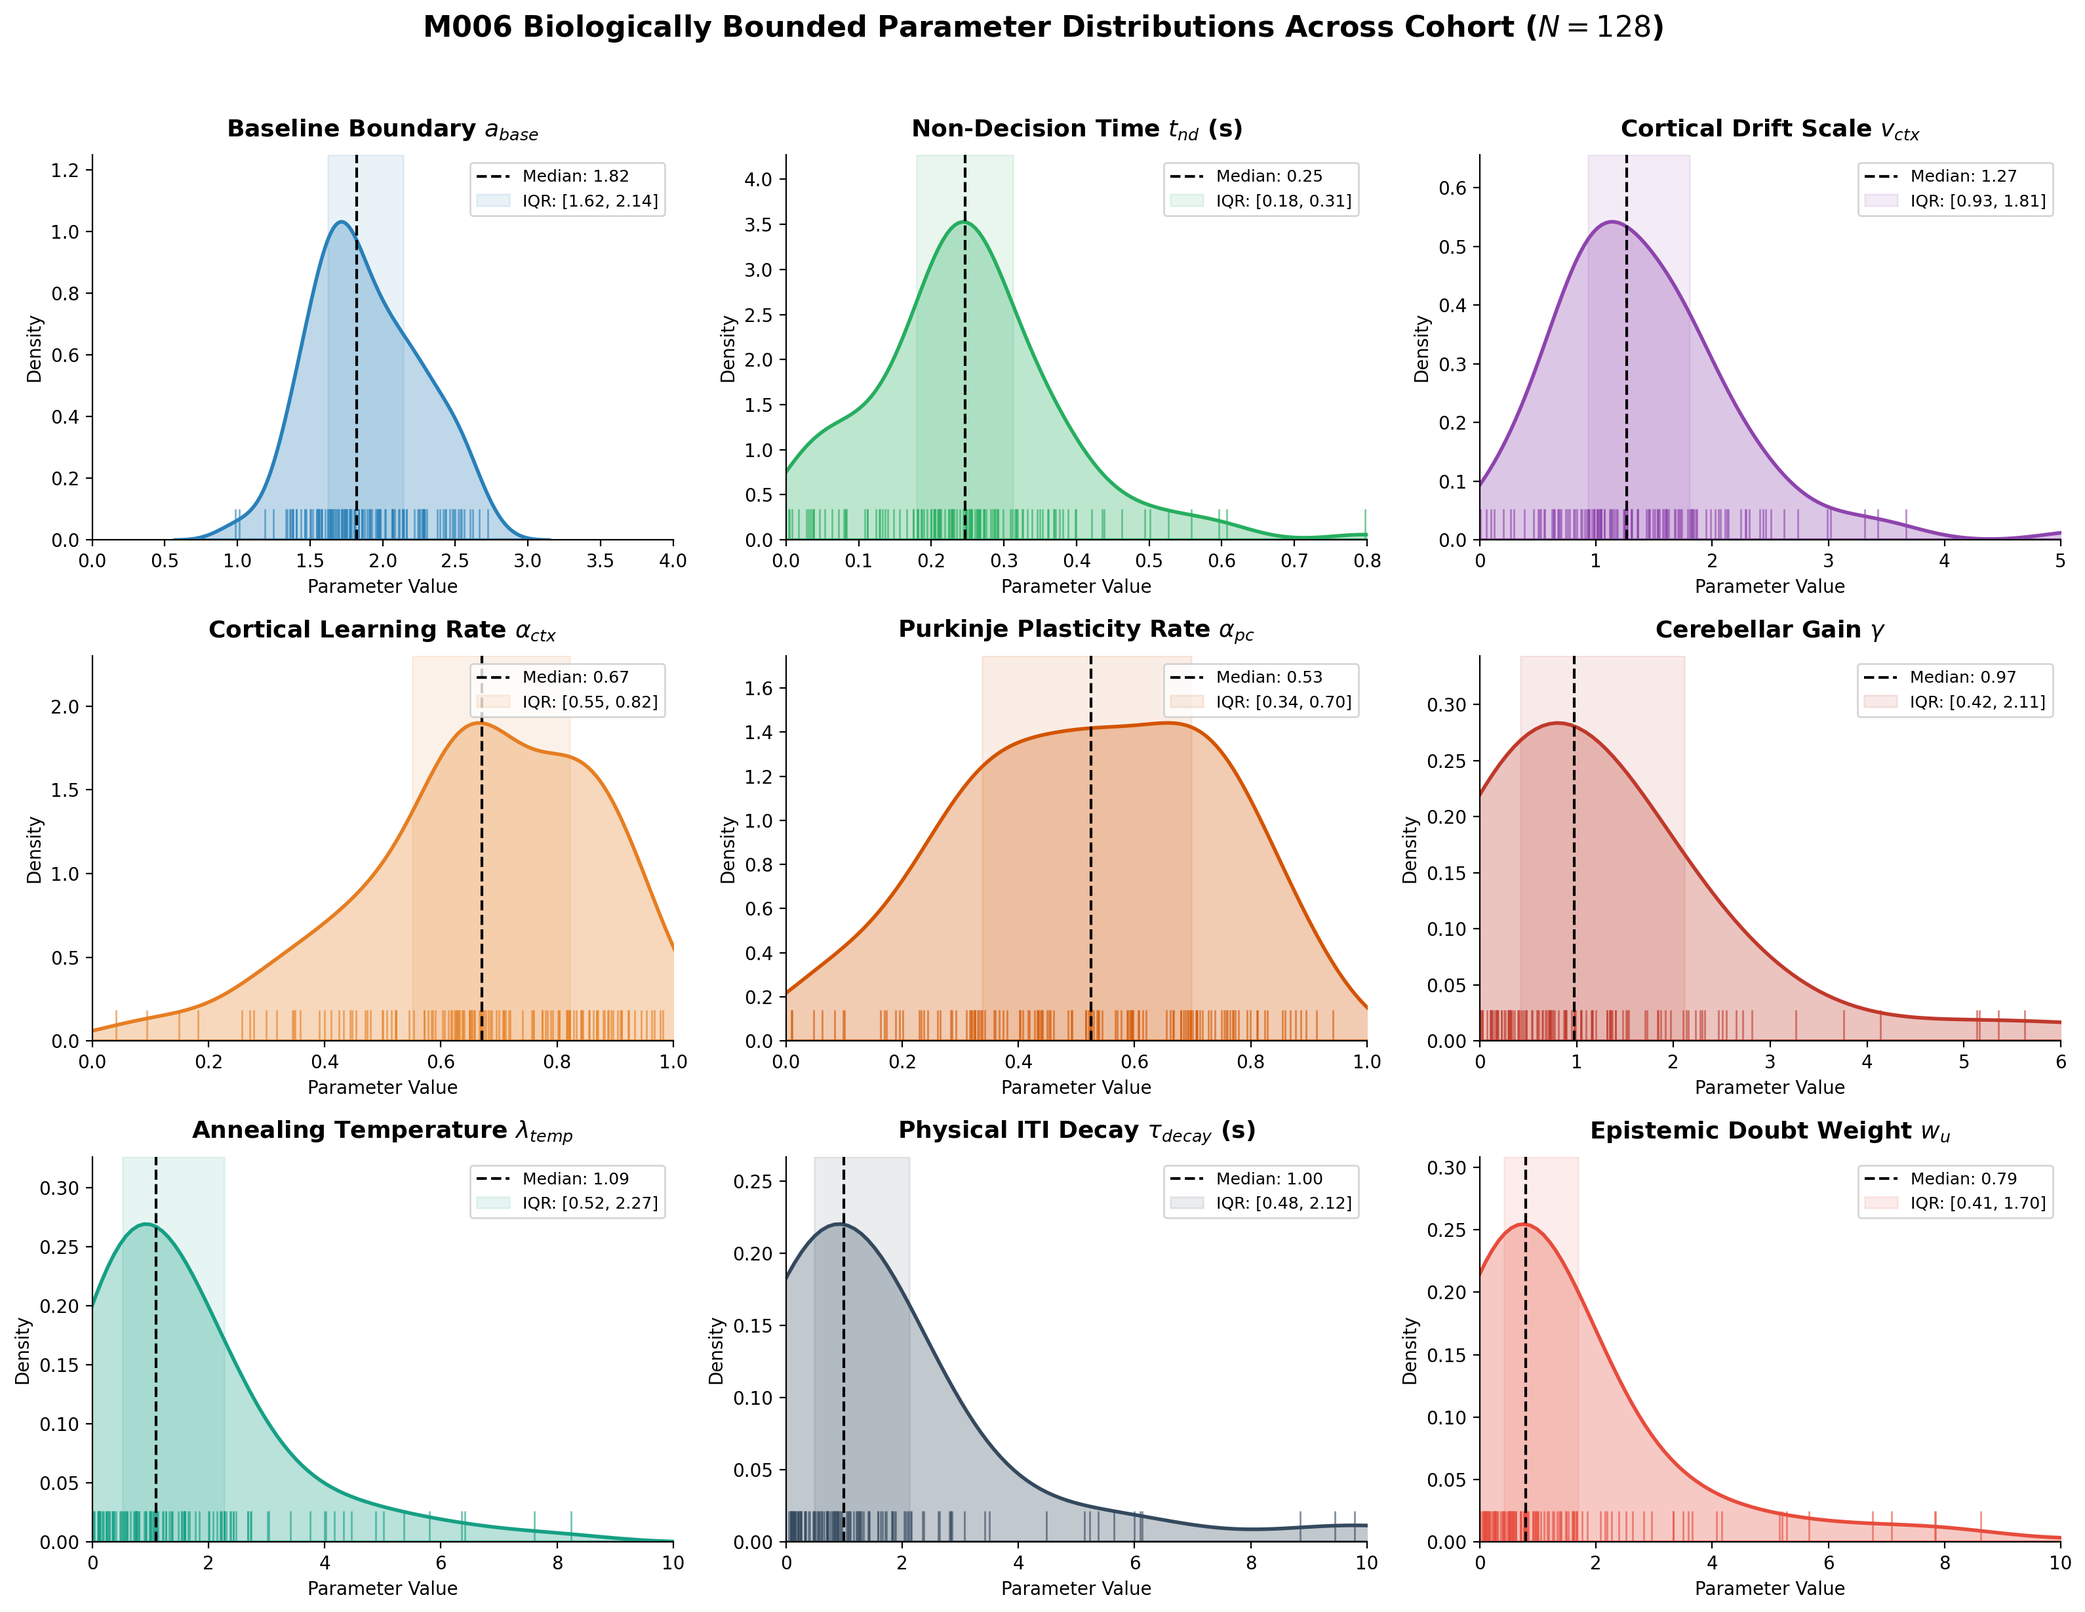
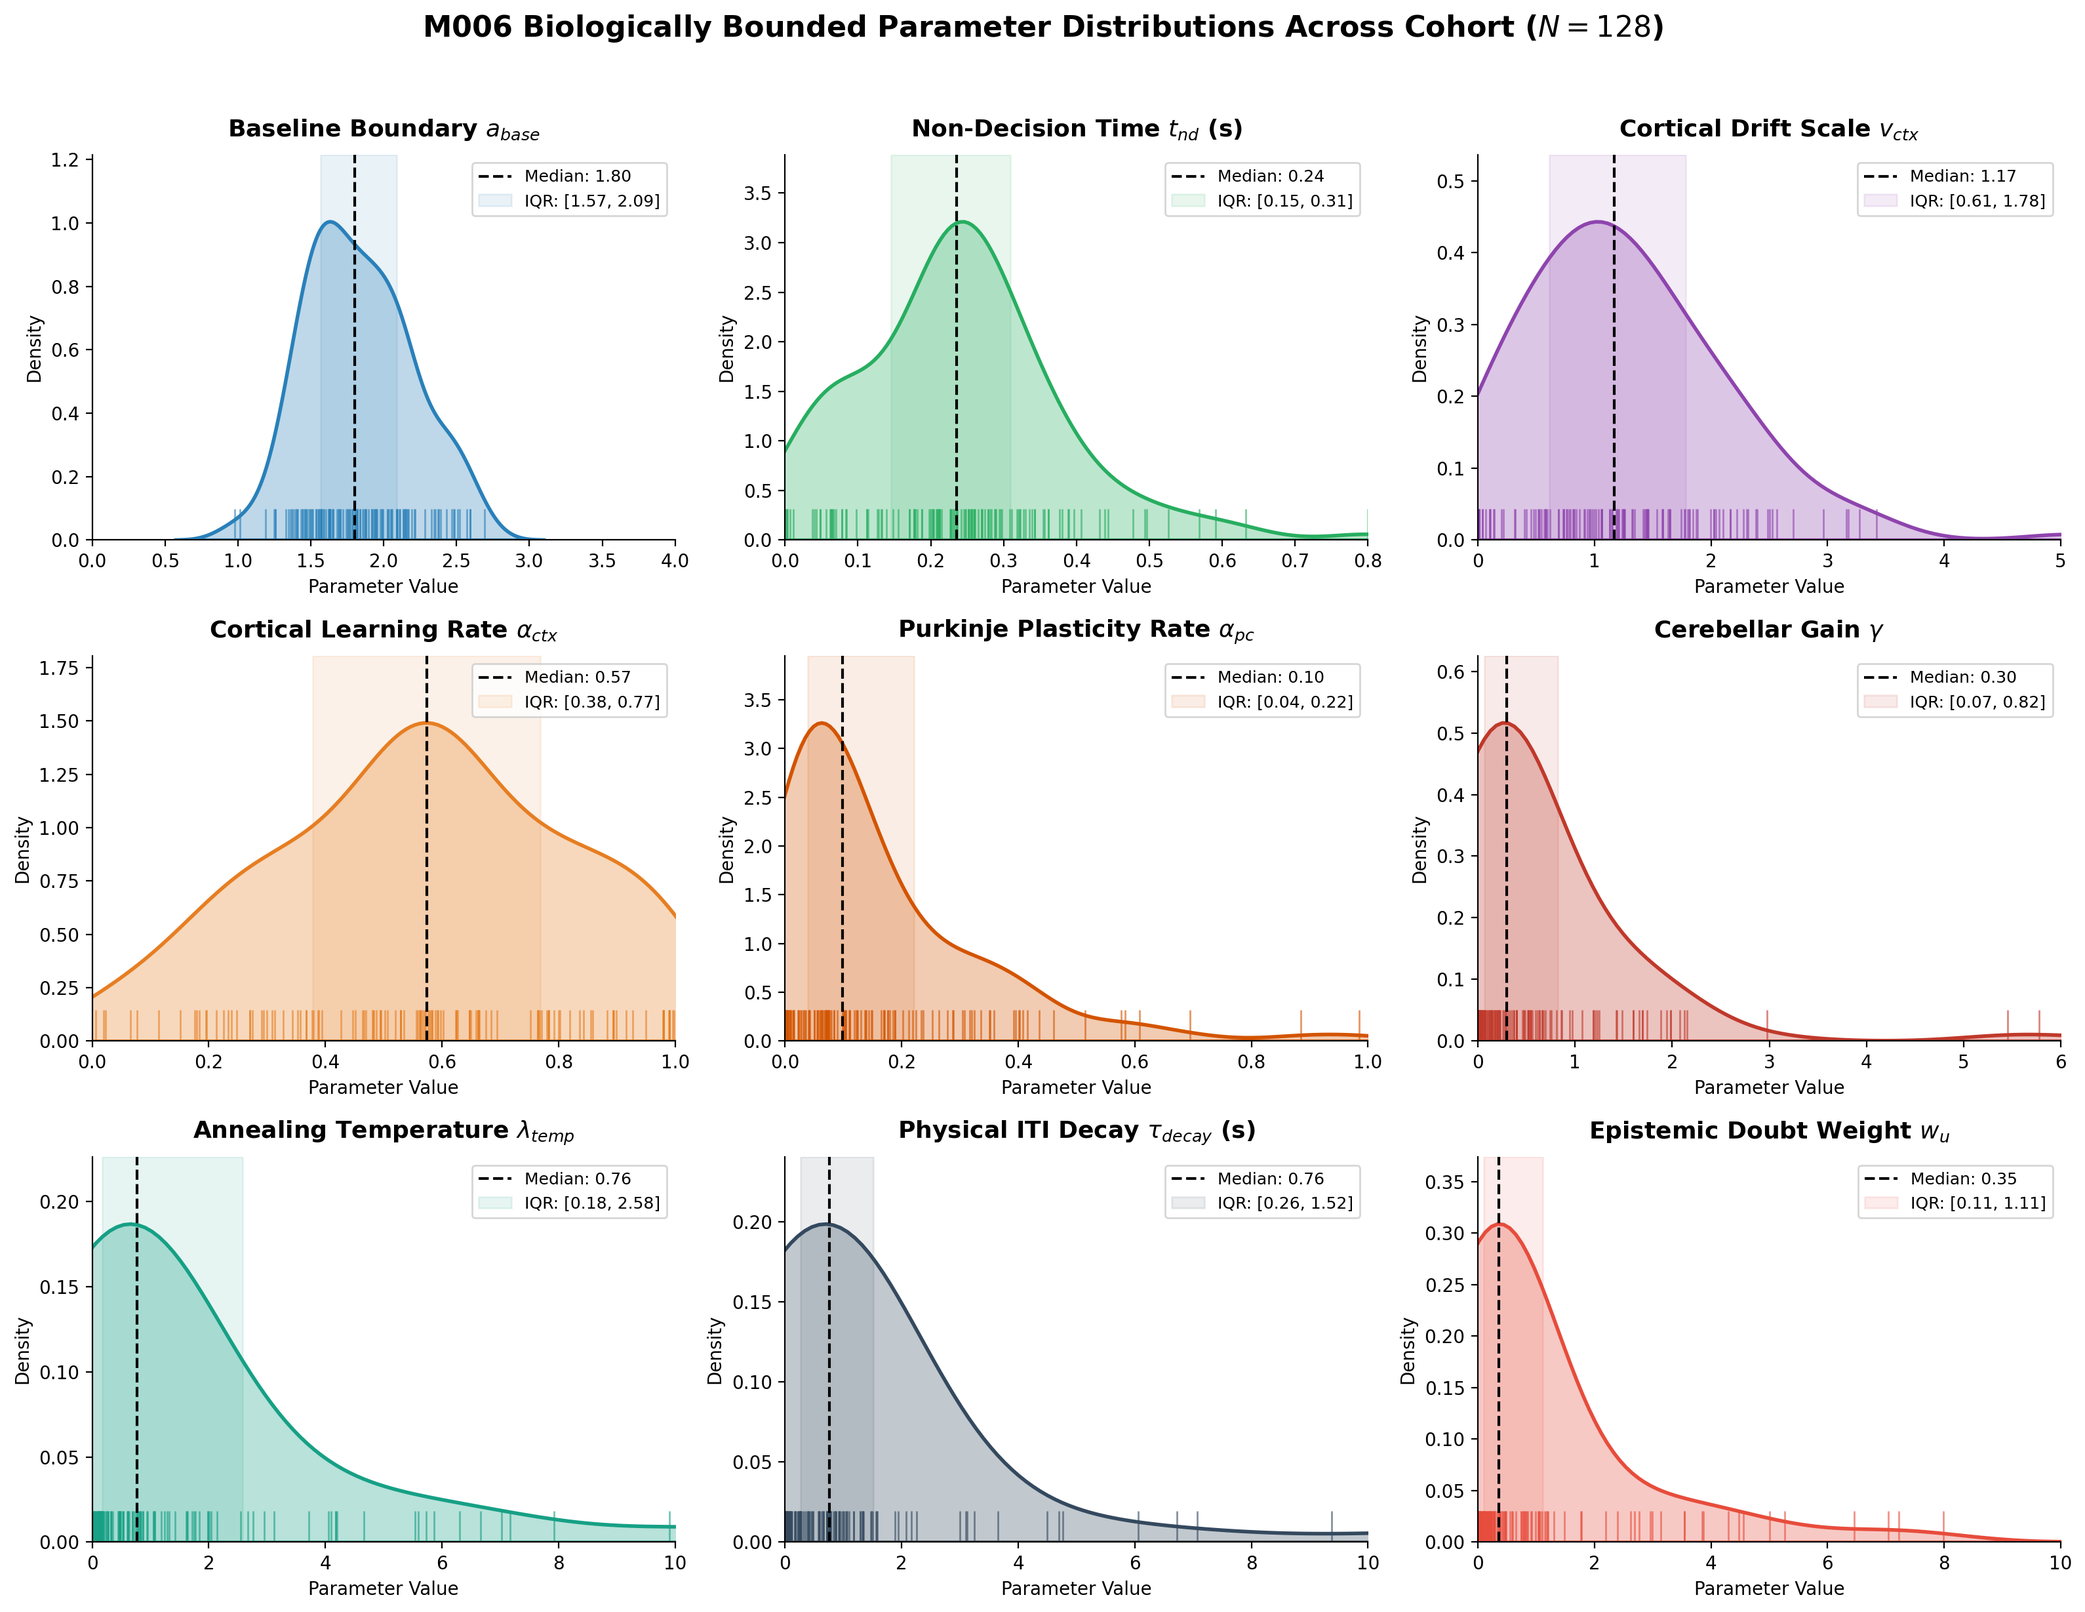
Fix: restore missing Simulated Annealing loop in M006 C++ engine and adjust CMA-ES tolerances (maxit=200, warm-started)

diff --git a/cerebellum_project/src/models/magi_all_models.cpp b/cerebellum_project/src/models/magi_all_models.cpp
@@ -33,9 +33,8 @@ static double wfpt_pdf(double t, int resp, double v, double a, double t0, double
 }
 
 // ---------------------------------------------------------
-// MODEL BASE: Q-Learning Wald
+// MODEL BASE
 // ---------------------------------------------------------
-// phi: [0]a, [1]tnd, [2]v_ctx, [3]alpha_ctx
 // [[Rcpp::export]]
 double get_nll_base(const std::vector<double>& phi, const IntegerVector& resp, const NumericVector& reward, const NumericVector& rt) {
     double a = std::exp(phi[0]), tnd = 0.8 / (1.0 + std::exp(-phi[1]));
@@ -68,142 +67,6 @@ DataFrame sim_base(const std::vector<double>& phi, const IntegerVector& resp, co
 
 
 // ---------------------------------------------------------
-// MODEL 005: Static Opponent Process (Bounded)
-// ---------------------------------------------------------
-// [[Rcpp::export]]
-double get_nll_005(const std::vector<double>& phi, const std::vector<double>& hyper, const IntegerVector& resp, const NumericVector& reward, const NumericVector& rt) {
-    double lambda_sparse = hyper[0], beta_ising = hyper[1]; int K_sa = (int)hyper[2];
-    double a = std::exp(phi[0]), tnd = 0.8 / (1.0 + std::exp(-phi[1]));
-    double v_ctx = std::exp(phi[2]), alpha_ctx = 1.0 / (1.0 + std::exp(-phi[3]));
-    double alpha_pc = 1.0 / (1.0 + std::exp(-phi[4])); double gamma = std::exp(phi[5]);
-    double lambda_sa_temp = std::exp(phi[6]);
-    
-    int N = 32; std::vector<double> h(N,0), Z(N,0), W(N,0), W_exp(N,0), frac_mem(N,0), W_PC(N,0);
-    std::vector<int> S(N,0);
-    std::mt19937 gen(42); std::uniform_real_distribution<> unif(0.0,1.0); std::normal_distribution<> norm(0.0,1.0);
-    for(int i=0;i<N;++i){W_exp[i]=norm(gen);W[i]=norm(gen);}
-    std::vector<double> frac_alpha(N, 0.0), kappa_vec(N, 0.0);
-    for(int i=0; i<N; ++i) { frac_alpha[i] = 0.1+0.8*(i/31.0); kappa_vec[i] = 0.1+0.89*(i/31.0); }
-    
-    double nll=0.0, prev_E=0.0; double Q[2]={0.5,0.5}; int prev_ch = 0;
-    
-    for(int t=0;t<resp.size();++t){
-        int ch=resp[t]-1; double R=(reward[t]==1.0)?1.0:0.0;
-        for(int i=0;i<N;++i){
-            frac_mem[i] = frac_alpha[i] * frac_mem[i] + (1.0 - frac_alpha[i]) * W_exp[i] * Q[ch];
-            h[i] = std::tanh(frac_mem[i]); Z[i] = kappa_vec[i] * Z[i] + h[i];
-        }
-        double cb0 = 0.0, cb1 = 0.0;
-        for(int i=0; i<16; ++i) if(S[i]==1) cb0 += W_PC[i]*Z[i];
-        for(int i=16; i<32; ++i) if(S[i]==1) cb1 += W_PC[i]*Z[i];
-        double v_eff = v_ctx*(Q[1]-Q[0]) + gamma*(cb1 - cb0);
-        if(std::abs(v_eff)<1e-4) v_eff = v_eff>=0?1e-4:-1e-4;
-        nll -= std::log(wfpt_pdf(rt[t], resp[t], v_eff, a, tnd, 0.5));
-        
-        prev_E = R - Q[ch]; Q[ch] += alpha_ctx * prev_E; prev_ch = ch;
-        double err0 = (prev_ch == 0) ? prev_E : 0.0; double err1 = (prev_ch == 1) ? prev_E : 0.0;
-        for(int i=0; i<16; ++i) { 
-            W_PC[i] += alpha_pc * Z[i] * err0;
-            W_PC[i] = std::max(-3.0, std::min(3.0, W_PC[i]));
-        }
-        for(int i=16; i<32; ++i) { 
-            W_PC[i] += alpha_pc * Z[i] * err1;
-            W_PC[i] = std::max(-3.0, std::min(3.0, W_PC[i]));
-        }
-    }
-    return nll;
-}
-
-// ---------------------------------------------------------
-// MODEL 006 (PRE-CORRECTION / UNCLAMPED)
-// ---------------------------------------------------------
-// [[Rcpp::export]]
-double get_nll_006_unclamped(const std::vector<double>& phi, const std::vector<double>& hyper, const IntegerVector& resp, const NumericVector& reward, const NumericVector& rt, const NumericVector& iti) {
-    double a_base = std::exp(phi[0]), tnd = 0.8 / (1.0 + std::exp(-phi[1]));
-    double v_ctx = std::exp(phi[2]), alpha_ctx = 1.0 / (1.0 + std::exp(-phi[3]));
-    double alpha_pc = 1.0 / (1.0 + std::exp(-phi[4])); double gamma = std::exp(phi[5]);
-    double tau_decay = std::exp(phi[7]), w_u = std::exp(phi[8]);
-    
-    int N = 32; std::vector<double> h(N,0), Z(N,0), W(N,0), W_exp(N,0), frac_mem(N,0), W_PC(N,0);
-    std::vector<int> S(N,0);
-    std::mt19937 gen(42); std::normal_distribution<> norm(0.0,1.0);
-    for(int i=0;i<N;++i){W_exp[i]=norm(gen);W[i]=norm(gen);}
-    std::vector<double> frac_alpha(N, 0.0), kappa_vec(N, 0.0);
-    for(int i=0; i<N; ++i) { frac_alpha[i] = 0.1+0.8*(i/31.0); kappa_vec[i] = 0.1+0.89*(i/31.0); }
-    
-    double nll=0.0, prev_E=0.0; double Q[2]={0.5,0.5}; int prev_ch = 0;
-    
-    for(int t=0;t<resp.size();++t){
-        int ch=resp[t]-1; double R=(reward[t]==1.0)?1.0:0.0;
-        double current_iti = (t == 0 || std::isnan(iti[t])) ? 1.0 : iti[t];
-        double physical_decay = std::exp(-current_iti / tau_decay);
-        
-        for(int i=0;i<N;++i){
-            frac_mem[i] = frac_alpha[i] * frac_mem[i] + (1.0 - frac_alpha[i]) * W_exp[i] * Q[ch];
-            Z[i] = physical_decay * kappa_vec[i] * Z[i] + std::tanh(frac_mem[i]);
-        }
-        double cb0 = 0.0, cb1 = 0.0;
-        for(int i=0; i<16; ++i) if(S[i]==1) cb0 += W_PC[i]*Z[i];
-        for(int i=16; i<32; ++i) if(S[i]==1) cb1 += W_PC[i]*Z[i];
-        
-        double v_eff = v_ctx*(Q[1]-Q[0]) + gamma*(cb1 - cb0);
-        if(std::abs(v_eff)<1e-4) v_eff = v_eff>=0?1e-4:-1e-4;
-        double a_dyn = a_base + w_u * std::abs(cb0) * std::abs(cb1);
-        
-        nll -= std::log(wfpt_pdf(rt[t], resp[t], v_eff, a_dyn, tnd, 0.5));
-        
-        prev_E = R - Q[ch]; Q[ch] += alpha_ctx * prev_E; prev_ch = ch;
-        // Unclamped open-loop linear accumulation (pre-correction)
-        for(int i=0; i<16; ++i) { W_PC[i] += alpha_pc * Z[i] * ((prev_ch == 0) ? prev_E : 0.0); }
-        for(int i=16; i<32; ++i) { W_PC[i] += alpha_pc * Z[i] * ((prev_ch == 1) ? prev_E : 0.0); }
-    }
-    return nll;
-}
-
-// [[Rcpp::export]]
-DataFrame sim_006_unclamped(const std::vector<double>& phi, const std::vector<double>& hyper, const IntegerVector& resp, const NumericVector& reward, const NumericVector& rt, const NumericVector& iti) {
-    double a_base = std::exp(phi[0]), tnd = 0.8 / (1.0 + std::exp(-phi[1]));
-    double v_ctx = std::exp(phi[2]), alpha_ctx = 1.0 / (1.0 + std::exp(-phi[3]));
-    double alpha_pc = 1.0 / (1.0 + std::exp(-phi[4])); double gamma = std::exp(phi[5]);
-    double tau_decay = std::exp(phi[7]), w_u = std::exp(phi[8]);
-    
-    int N = 32; std::vector<double> h(N,0), Z(N,0), W(N,0), W_exp(N,0), frac_mem(N,0), W_PC(N,0);
-    std::vector<int> S(N,1);
-    std::mt19937 gen(42); std::normal_distribution<> norm(0.0,1.0);
-    for(int i=0;i<N;++i){W_exp[i]=norm(gen);W[i]=norm(gen);}
-    std::vector<double> frac_alpha(N, 0.0), kappa_vec(N, 0.0);
-    for(int i=0; i<N; ++i) { frac_alpha[i] = 0.1+0.8*(i/31.0); kappa_vec[i] = 0.1+0.89*(i/31.0); }
-    
-    NumericVector pred_v(resp.size()), pred_a(resp.size()), conflict(resp.size());
-    double Q[2]={0.5,0.5}; int prev_ch = 0; double prev_E=0.0;
-    
-    for(int t=0;t<resp.size();++t){
-        int ch=resp[t]-1; double R=(reward[t]==1.0)?1.0:0.0;
-        double current_iti = (t == 0 || std::isnan(iti[t])) ? 1.0 : iti[t];
-        double physical_decay = std::exp(-current_iti / tau_decay);
-        
-        for(int i=0;i<N;++i){
-            frac_mem[i] = frac_alpha[i] * frac_mem[i] + (1.0 - frac_alpha[i]) * W_exp[i] * Q[ch];
-            Z[i] = physical_decay * kappa_vec[i] * Z[i] + std::tanh(frac_mem[i]);
-        }
-        double cb0 = 0.0, cb1 = 0.0;
-        for(int i=0; i<16; ++i) if(S[i]==1) cb0 += W_PC[i]*Z[i];
-        for(int i=16; i<32; ++i) if(S[i]==1) cb1 += W_PC[i]*Z[i];
-        
-        pred_v[t] = v_ctx*(Q[1]-Q[0]) + gamma*(cb1 - cb0);
-        conflict[t] = std::abs(cb0) * std::abs(cb1);
-        pred_a[t] = a_base + w_u * conflict[t];
-        
-        prev_E = R - Q[ch]; Q[ch] += alpha_ctx * prev_E; prev_ch = ch;
-        // Unclamped open-loop linear accumulation (pre-correction)
-        for(int i=0; i<16; ++i) { W_PC[i] += alpha_pc * Z[i] * ((prev_ch == 0) ? prev_E : 0.0); }
-        for(int i=16; i<32; ++i) { W_PC[i] += alpha_pc * Z[i] * ((prev_ch == 1) ? prev_E : 0.0); }
-    }
-    return DataFrame::create(_["v"]=pred_v, _["a"]=pred_a, _["tnd"]=tnd, _["conflict"]=conflict);
-}
-
-
-// ---------------------------------------------------------
 // MODEL 006: Continuous ITI + Epistemic Boundary (Bounded)
 // ---------------------------------------------------------
 // [[Rcpp::export]]
@@ -211,11 +74,14 @@ double get_nll_006(const std::vector<double>& phi, const std::vector<double>& hy
     double a_base = std::exp(phi[0]), tnd = 0.8 / (1.0 + std::exp(-phi[1]));
     double v_ctx = std::exp(phi[2]), alpha_ctx = 1.0 / (1.0 + std::exp(-phi[3]));
     double alpha_pc = 1.0 / (1.0 + std::exp(-phi[4])); double gamma = std::exp(phi[5]);
+    double lambda_sa_temp = std::exp(phi[6]); 
     double tau_decay = std::exp(phi[7]), w_u = std::exp(phi[8]);
     
+    double lambda_sparse = hyper[0], beta_ising = hyper[1]; int K_sa = (int)hyper[2];
+    
     int N = 32; std::vector<double> h(N,0), Z(N,0), W(N,0), W_exp(N,0), frac_mem(N,0), W_PC(N,0);
-    std::vector<int> S(N,0);
-    std::mt19937 gen(42); std::normal_distribution<> norm(0.0,1.0);
+    std::vector<int> S(N,1); // START FULLY ACTIVE
+    std::mt19937 gen(42); std::normal_distribution<> norm(0.0,1.0); std::uniform_real_distribution<> unif(0.0,1.0);
     for(int i=0;i<N;++i){W_exp[i]=norm(gen);W[i]=norm(gen);}
     std::vector<double> frac_alpha(N, 0.0), kappa_vec(N, 0.0);
     for(int i=0; i<N; ++i) { frac_alpha[i] = 0.1+0.8*(i/31.0); kappa_vec[i] = 0.1+0.89*(i/31.0); }
@@ -231,13 +97,34 @@ double get_nll_006(const std::vector<double>& phi, const std::vector<double>& hy
             frac_mem[i] = frac_alpha[i] * frac_mem[i] + (1.0 - frac_alpha[i]) * W_exp[i] * Q[ch];
             Z[i] = physical_decay * kappa_vec[i] * Z[i] + std::tanh(frac_mem[i]);
         }
+        
+        // --- MISSING SA LOOP RESTORED ---
+        if(std::abs(prev_E) > 0.01) {
+            for(int k=0; k<K_sa; ++k) {
+                int idx = unif(gen) * N;
+                if(idx >= N) idx = N-1;
+                double dE_sparse = lambda_sparse * (S[idx]==1 ? -1.0 : 1.0);
+                double dE_ising = 0.0;
+                if(idx > 0) dE_ising += beta_ising * (S[idx]==S[idx-1] ? -1.0 : 1.0);
+                if(idx < N-1) dE_ising += beta_ising * (S[idx]==S[idx+1] ? -1.0 : 1.0);
+                
+                double dE_total = dE_sparse + dE_ising;
+                if(dE_total < 0 || unif(gen) < std::exp(-dE_total / lambda_sa_temp)) {
+                    S[idx] = 1 - S[idx];
+                }
+            }
+        }
+        
         double cb0 = 0.0, cb1 = 0.0;
         for(int i=0; i<16; ++i) if(S[i]==1) cb0 += W_PC[i]*Z[i];
         for(int i=16; i<32; ++i) if(S[i]==1) cb1 += W_PC[i]*Z[i];
         
         double v_eff = v_ctx*(Q[1]-Q[0]) + gamma*(cb1 - cb0);
         if(std::abs(v_eff)<1e-4) v_eff = v_eff>=0?1e-4:-1e-4;
+        
+        // Dynamic Epistemic Boundary
         double a_dyn = a_base + w_u * std::abs(cb0) * std::abs(cb1);
+        if (a_dyn > 5.0) a_dyn = 5.0; // Hard biological upper limit
         
         nll -= std::log(wfpt_pdf(rt[t], resp[t], v_eff, a_dyn, tnd, 0.5));
         
@@ -259,11 +146,14 @@ DataFrame sim_006(const std::vector<double>& phi, const std::vector<double>& hyp
     double a_base = std::exp(phi[0]), tnd = 0.8 / (1.0 + std::exp(-phi[1]));
     double v_ctx = std::exp(phi[2]), alpha_ctx = 1.0 / (1.0 + std::exp(-phi[3]));
     double alpha_pc = 1.0 / (1.0 + std::exp(-phi[4])); double gamma = std::exp(phi[5]);
+    double lambda_sa_temp = std::exp(phi[6]); 
     double tau_decay = std::exp(phi[7]), w_u = std::exp(phi[8]);
+    
+    double lambda_sparse = hyper[0], beta_ising = hyper[1]; int K_sa = (int)hyper[2];
     
     int N = 32; std::vector<double> h(N,0), Z(N,0), W(N,0), W_exp(N,0), frac_mem(N,0), W_PC(N,0);
     std::vector<int> S(N,1);
-    std::mt19937 gen(42); std::normal_distribution<> norm(0.0,1.0);
+    std::mt19937 gen(42); std::normal_distribution<> norm(0.0,1.0); std::uniform_real_distribution<> unif(0.0,1.0);
     for(int i=0;i<N;++i){W_exp[i]=norm(gen);W[i]=norm(gen);}
     std::vector<double> frac_alpha(N, 0.0), kappa_vec(N, 0.0);
     for(int i=0; i<N; ++i) { frac_alpha[i] = 0.1+0.8*(i/31.0); kappa_vec[i] = 0.1+0.89*(i/31.0); }
@@ -280,13 +170,32 @@ DataFrame sim_006(const std::vector<double>& phi, const std::vector<double>& hyp
             frac_mem[i] = frac_alpha[i] * frac_mem[i] + (1.0 - frac_alpha[i]) * W_exp[i] * Q[ch];
             Z[i] = physical_decay * kappa_vec[i] * Z[i] + std::tanh(frac_mem[i]);
         }
+        
+        if(std::abs(prev_E) > 0.01) {
+            for(int k=0; k<K_sa; ++k) {
+                int idx = unif(gen) * N;
+                if(idx >= N) idx = N-1;
+                double dE_sparse = lambda_sparse * (S[idx]==1 ? -1.0 : 1.0);
+                double dE_ising = 0.0;
+                if(idx > 0) dE_ising += beta_ising * (S[idx]==S[idx-1] ? -1.0 : 1.0);
+                if(idx < N-1) dE_ising += beta_ising * (S[idx]==S[idx+1] ? -1.0 : 1.0);
+                
+                double dE_total = dE_sparse + dE_ising;
+                if(dE_total < 0 || unif(gen) < std::exp(-dE_total / lambda_sa_temp)) {
+                    S[idx] = 1 - S[idx];
+                }
+            }
+        }
+        
         double cb0 = 0.0, cb1 = 0.0;
         for(int i=0; i<16; ++i) if(S[i]==1) cb0 += W_PC[i]*Z[i];
         for(int i=16; i<32; ++i) if(S[i]==1) cb1 += W_PC[i]*Z[i];
         
         pred_v[t] = v_ctx*(Q[1]-Q[0]) + gamma*(cb1 - cb0);
         conflict[t] = std::abs(cb0) * std::abs(cb1);
-        pred_a[t] = a_base + w_u * conflict[t];
+        double a_dyn = a_base + w_u * conflict[t];
+        if (a_dyn > 5.0) a_dyn = 5.0; 
+        pred_a[t] = a_dyn;
         
         prev_E = R - Q[ch]; Q[ch] += alpha_ctx * prev_E; prev_ch = ch;
         for(int i=0; i<16; ++i) { 
